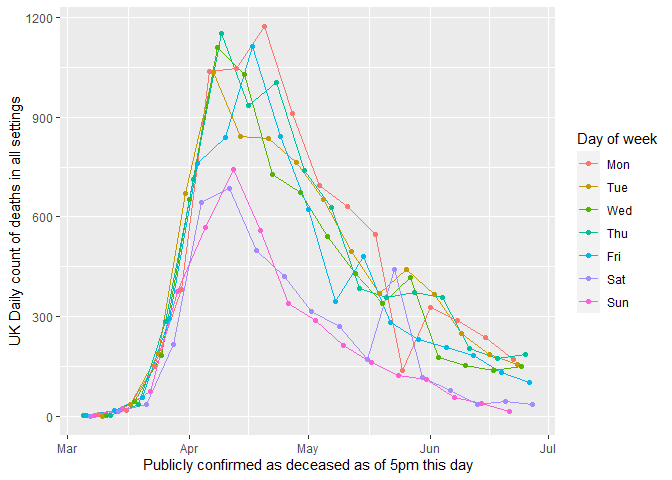
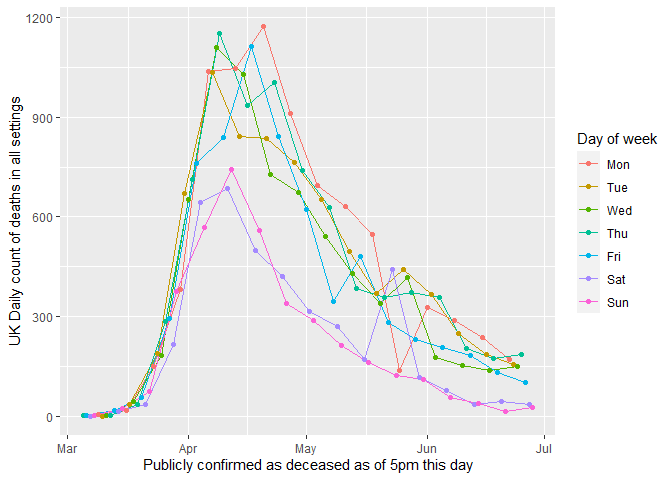
Updated with data from 29 June 2020

diff --git a/covid.md b/covid.md
@@ -2,7 +2,7 @@ Using ggplot2 to visualise Covid-19 deaths the UK
 ================
 Andi (<almost@gmail.com>,
 @[inductivestep](https://twitter.com/InductiveStep))
-28 June 2020
+29 June 2020
 
 ### Load packages
 
@@ -20,7 +20,7 @@ and Public Health England [over
 here](https://www.gov.uk/guidance/coronavirus-covid-19-information-for-the-public).
 
 ``` r
-death <- read_csv("https://assets.publishing.service.gov.uk/government/uploads/system/uploads/attachment_data/file/896042/2020-06-28-COVID-19-UK-deaths-time-series.csv")
+death <- read_csv("https://assets.publishing.service.gov.uk/government/uploads/system/uploads/attachment_data/file/896264/COVID-19_UK_deaths_time_series_29_June.csv")
 names(death)
 ```
 
